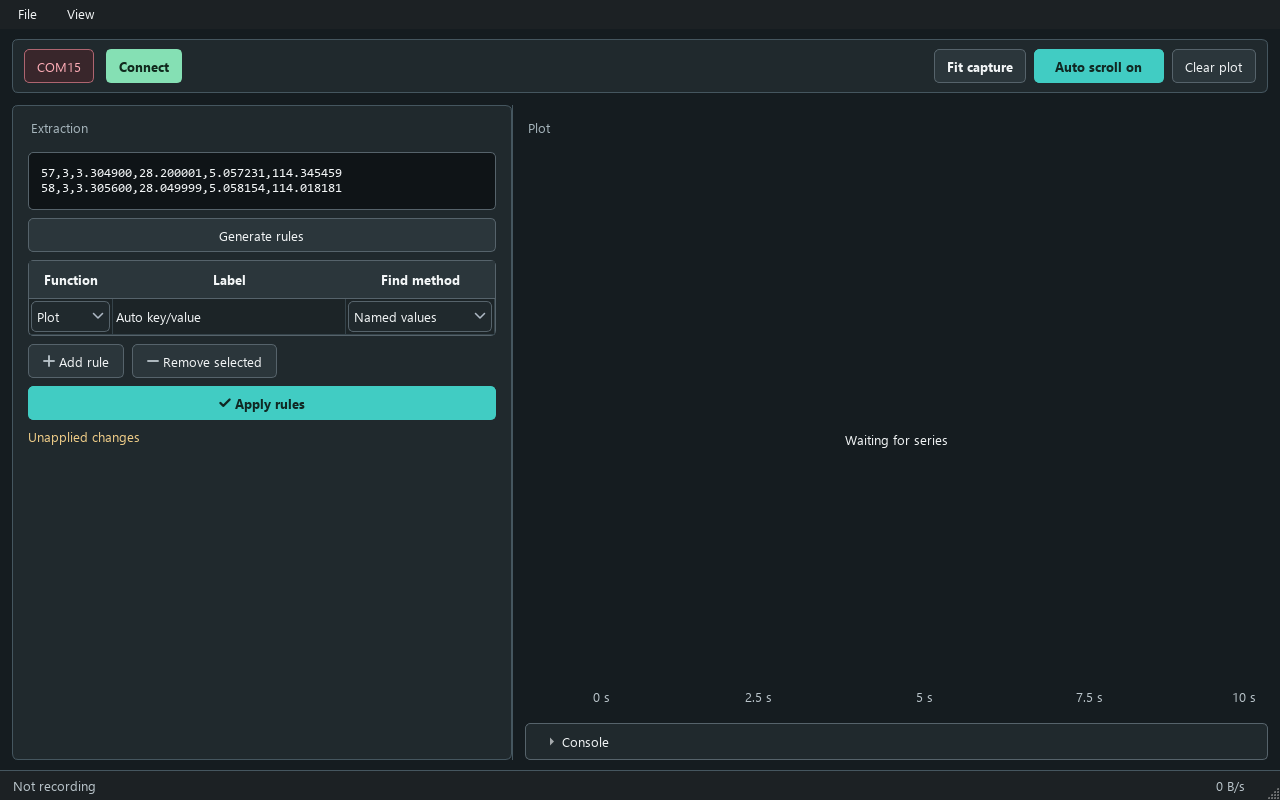
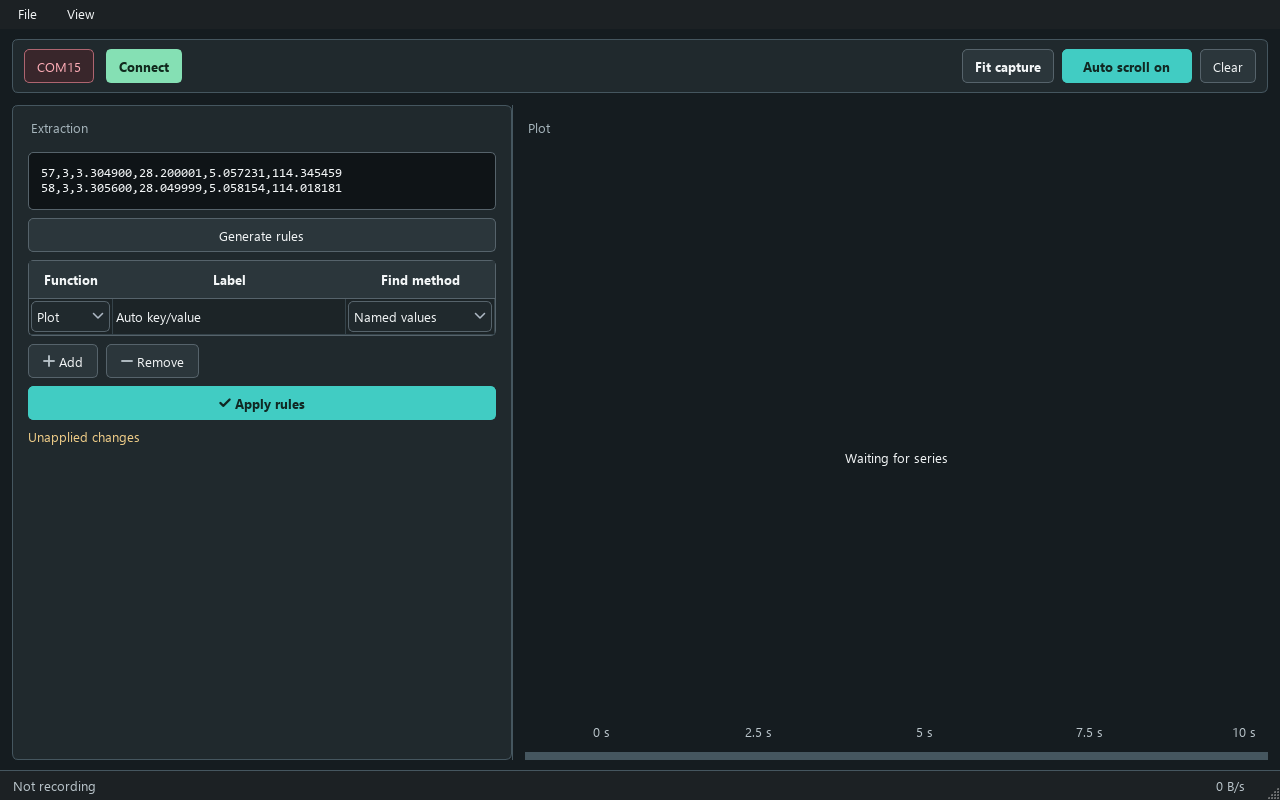
Impove UI slightly

diff --git a/mainwindow.py b/mainwindow.py
@@ -4,7 +4,7 @@ from dataclasses import replace
 from pathlib import Path
 
 from PySide6.QtGui import QAction, QColor, QIcon, QKeySequence, QPalette, QPixmap, QShortcut
-from PySide6.QtCore import QSettings, QSize, QTimer, Qt, Slot
+from PySide6.QtCore import QSettings, QSignalBlocker, QSize, QTimer, Qt, Slot
 from PySide6.QtWidgets import (
     QApplication,
     QFileDialog,
@@ -14,7 +14,6 @@ from PySide6.QtWidgets import (
     QMainWindow,
     QProgressDialog,
     QSizePolicy,
-    QToolButton,
     QWidget,
 )
 
@@ -139,11 +138,6 @@ class MainWindow(QMainWindow):
             heading = QLabel(title, panel)
             heading.setObjectName("PanelHeading")
             layout.insertWidget(0, heading)
-        collapse_console = QToolButton(self.ui.ConsolePanel)
-        collapse_console.setText("Hide")
-        collapse_console.setToolTip("Collapse the console")
-        collapse_console.clicked.connect(lambda: self.ui.actionConsole.setChecked(False))
-        self.ui.SearchLayout.addWidget(collapse_console)
         self.ui.SearchLayout.setSpacing(8)
         self.ui.SendButton.setProperty("primary", True)
         self.ui.SendButton.setIcon(QIcon(":/icons/send.svg"))
@@ -158,7 +152,6 @@ class MainWindow(QMainWindow):
         self.ui.SearchPreviousButton.clicked.connect(self.on_console_search_previous)
         self._console_search_shortcut = QShortcut(QKeySequence.StandardKey.Find, self)
         self._console_search_shortcut.activated.connect(self.focus_console_search)
-        self.ui.ConsoleToggle.setDefaultAction(self.ui.actionConsole)
         self.ui.actionConsole.toggled.connect(self.set_console_visible)
         self.ui.actionSidebar.toggled.connect(self.ui.SeriesSidebar.setVisible)
         self.ui.actionDiagnostics.toggled.connect(self.set_diagnostics_visible)
@@ -175,9 +168,13 @@ class MainWindow(QMainWindow):
         self.ui.MainSplitter.setStretchFactor(0, 0)
         self.ui.MainSplitter.setStretchFactor(1, 1)
         self.ui.WorkspaceSplitter.setCollapsible(0, False)
-        self.ui.WorkspaceSplitter.setCollapsible(1, False)
+        self.ui.WorkspaceSplitter.setCollapsible(1, True)
+        self.ui.WorkspaceSplitter.setHandleWidth(8)
+        self.ui.WorkspaceSplitter.handle(1).setToolTip("Drag down to collapse the console; drag up to reopen it.")
+        self.ui.WorkspaceSplitter.handle(1).setAccessibleName("Resize or collapse console")
+        self.ui.WorkspaceSplitter.splitterMoved.connect(self._console_splitter_moved)
         self._console_height = 180
-        self.ui.ConsolePanel.hide()
+        self.set_console_visible(False)
         self.ui.actionSidebar.setChecked(True)
         self._preferences = QSettings("PlotTTY", "PlotTTY")
         self._sidebar_structure = None
@@ -227,14 +224,19 @@ class MainWindow(QMainWindow):
         self.plot.set_series_visible(item.data(Qt.ItemDataRole.UserRole), item.checkState() == Qt.CheckState.Checked)
 
     def set_console_visible(self, visible):
-        if not visible and self.ui.ConsolePanel.isVisible():
+        if not visible and self.ui.WorkspaceSplitter.sizes()[1] > 0:
             self._console_height = max(80, self.ui.WorkspaceSplitter.sizes()[1])
-        self.ui.ConsoleToggle.setArrowType(Qt.ArrowType.DownArrow if visible else Qt.ArrowType.RightArrow)
-        self.ui.ConsolePanel.setVisible(visible)
-        self.ui.ConsoleToggle.setVisible(not visible)
-        if visible:
-            height = self.ui.WorkspaceSplitter.height()
-            self.ui.WorkspaceSplitter.setSizes([max(220, height - self._console_height), self._console_height])
+        height = self.ui.WorkspaceSplitter.height()
+        console_height = self._console_height if visible else 0
+        self.ui.WorkspaceSplitter.setSizes([max(220, height - console_height), console_height])
+
+    def _console_splitter_moved(self, _position, _index):
+        height = self.ui.WorkspaceSplitter.sizes()[1]
+        if height > 0:
+            self._console_height = height
+        # Reflect a drag in the menu without resizing the splitter mid-gesture.
+        with QSignalBlocker(self.ui.actionConsole):
+            self.ui.actionConsole.setChecked(height > 0)
 
     def focus_console_search(self):
         self.ui.actionConsole.setChecked(True)
@@ -274,6 +276,7 @@ class MainWindow(QMainWindow):
             self._console_height = max(80, min(int(settings.value("consoleHeight", 180)), 1000))
             for name, default in (("Console", False), ("Sidebar", True), ("Diagnostics", False)):
                 getattr(self.ui, "action" + name).setChecked(settings.value(name, default, type=bool))
+            self.set_console_visible(self.ui.actionConsole.isChecked())
         except (TypeError, ValueError):
             self.resize(1280, 800)
 

diff --git a/ui_form.py b/ui_form.py
@@ -19,8 +19,8 @@ from PySide6.QtGui import (QAction, QBrush, QColor, QConicalGradient,
 from PySide6.QtWidgets import (QApplication, QHBoxLayout, QLabel, QLineEdit,
     QListWidget, QListWidgetItem, QMainWindow, QMenu,
     QMenuBar, QPlainTextEdit, QPushButton, QSizePolicy,
-    QSpacerItem, QSplitter, QStatusBar, QToolButton,
-    QVBoxLayout, QWidget)
+    QSpacerItem, QSplitter, QStatusBar, QVBoxLayout,
+    QWidget)
 
 from modules.widgets.plot_widget import PlotWidget
 
@@ -158,18 +158,6 @@ class Ui_MainWindow(object):
 
         self.WorkspaceLayout.addWidget(self.WorkspaceSplitter)
 
-        self.ConsoleToggle = QToolButton(self.Workspace)
-        self.ConsoleToggle.setObjectName(u"ConsoleToggle")
-        self.ConsoleToggle.setToolButtonStyle(Qt.ToolButtonTextBesideIcon)
-        self.ConsoleToggle.setArrowType(Qt.RightArrow)
-        sizePolicy = QSizePolicy(QSizePolicy.Policy.Expanding, QSizePolicy.Policy.Fixed)
-        sizePolicy.setHorizontalStretch(0)
-        sizePolicy.setVerticalStretch(0)
-        sizePolicy.setHeightForWidth(self.ConsoleToggle.sizePolicy().hasHeightForWidth())
-        self.ConsoleToggle.setSizePolicy(sizePolicy)
-
-        self.WorkspaceLayout.addWidget(self.ConsoleToggle)
-
         self.MainSplitter.addWidget(self.Workspace)
 
         self.MainLayout.addWidget(self.MainSplitter)
@@ -220,8 +208,13 @@ class Ui_MainWindow(object):
         self.SearchNextButton.setText(QCoreApplication.translate("MainWindow", u"Next", None))
         self.CommandEdit.setPlaceholderText(QCoreApplication.translate("MainWindow", u"Type command and press Enter", None))
         self.SendButton.setText(QCoreApplication.translate("MainWindow", u"Send", None))
-        self.ClearConsoleButton.setText(QCoreApplication.translate("MainWindow", u"Clear console", None))
-        self.ConsoleToggle.setText(QCoreApplication.translate("MainWindow", u"Console", None))
+        self.ClearConsoleButton.setText(QCoreApplication.translate("MainWindow", u"Clear", None))
+#if QT_CONFIG(tooltip)
+        self.ClearConsoleButton.setToolTip(QCoreApplication.translate("MainWindow", u"Clear console text", None))
+#endif // QT_CONFIG(tooltip)
+#if QT_CONFIG(accessibility)
+        self.ClearConsoleButton.setAccessibleName(QCoreApplication.translate("MainWindow", u"Clear console", None))
+#endif // QT_CONFIG(accessibility)
         self.menuFile.setTitle(QCoreApplication.translate("MainWindow", u"File", None))
         self.menuView.setTitle(QCoreApplication.translate("MainWindow", u"View", None))
         pass

diff --git a/tests/test_ui_redesign.py b/tests/test_ui_redesign.py
@@ -250,6 +250,45 @@ class WorkspaceTest(unittest.TestCase):
         window.ui.actionClearCapturedData.trigger()
         self.assertEqual(window.plot.series_info(), [])
 
+    def test_console_divider_collapses_and_reopens_by_drag(self):
+        window = self.window
+        splitter = window.ui.WorkspaceSplitter
+        window.ui.actionConsole.setChecked(True)
+        APP.processEvents()
+        handle = splitter.handle(1)
+        self.assertGreater(splitter.sizes()[1], 0)
+        QTest.mousePress(handle, Qt.MouseButton.LeftButton, pos=handle.rect().center())
+        QTest.mouseMove(handle, QPoint(handle.width() // 2, splitter.height()))
+        QTest.mouseRelease(handle, Qt.MouseButton.LeftButton)
+        APP.processEvents()
+        self.assertEqual(splitter.sizes()[1], 0)
+        self.assertFalse(window.ui.actionConsole.isChecked())
+        self.assertTrue(handle.isVisible())
+        self.assertGreater(handle.height(), 0)
+        QTest.mousePress(handle, Qt.MouseButton.LeftButton, pos=handle.rect().center())
+        QTest.mouseMove(handle, QPoint(handle.width() // 2, -250))
+        QTest.mouseRelease(handle, Qt.MouseButton.LeftButton)
+        APP.processEvents()
+        self.assertGreater(splitter.sizes()[1], 0)
+        self.assertTrue(window.ui.actionConsole.isChecked())
+
+    def test_collapsed_console_restores_and_search_reopens_it(self):
+        window = self.window
+        window.ui.actionConsole.setChecked(True)
+        window.ui.actionConsole.setChecked(False)
+        self.assertEqual(window.ui.WorkspaceSplitter.sizes()[1], 0)
+        window.close()
+        restored = MainWindow()
+        self.addCleanup(restored.close)
+        restored.show()
+        APP.processEvents()
+        self.assertEqual(restored.ui.WorkspaceSplitter.sizes()[1], 0)
+        self.assertTrue(restored.ui.WorkspaceSplitter.handle(1).isVisible())
+        restored.focus_console_search()
+        APP.processEvents()
+        self.assertGreater(restored.ui.WorkspaceSplitter.sizes()[1], 0)
+        self.assertTrue(restored.ui.SearchEdit.hasFocus())
+
     def test_console_search_selects_and_navigates_matches(self):
         self.window.console.append_received("alpha beta alpha")
         self.window.console.flush()

diff --git a/modules/widgets/plot_widget.py b/modules/widgets/plot_widget.py
@@ -377,7 +377,8 @@ class PlotWidget(QWidget):
         self.fit_capture_button.setCheckable(True)
         self.fit_capture_button.setToolTip(FIT_CAPTURE_TOOLTIP)
         self.fit_capture_button.clicked.connect(self.on_toggle_fit_capture)
-        self.clear_plot_button = QPushButton("Clear plot")
+        self.clear_plot_button = QPushButton("Clear")
+        self.clear_plot_button.setAccessibleName("Clear plot")
         self.clear_plot_button.setObjectName("ClearPlotButton")
         self.clear_plot_button.setToolTip("Clear all plotted data while keeping the console text.")
         self.clear_plot_button.clicked.connect(self.clearPlotRequested)

diff --git a/modules/widgets/rules_editor.py b/modules/widgets/rules_editor.py
@@ -46,8 +46,10 @@ class RulesEditor(QWidget):
         self._applied_rules = self.rules_table.rules()
         layout.addWidget(self.table)
         row = QHBoxLayout()
-        add = QPushButton("Add rule")
-        remove = QPushButton("Remove selected")
+        add = QPushButton("Add")
+        remove = QPushButton("Remove")
+        add.setToolTip("Add an extraction rule")
+        remove.setToolTip("Remove selected rules")
         add.setIcon(QIcon(":/icons/plus.svg"))
         remove.setIcon(QIcon(":/icons/minus.svg"))
         row.addWidget(add)

diff --git a/design-previews/implemented-01a/README.md b/design-previews/implemented-01a/README.md
@@ -19,7 +19,13 @@ The production UI retains per-rule
 extraction methods and zero-based fields, and displays actual latest values rather
 than the mockup's illustrative minimum/maximum statistics.
 
-Validation: 55 unit tests pass, including draft/apply behavior, adaptive table sizing, visible validation
+The console collapses and reopens by dragging its divider to/from the bottom edge;
+View → Console and Ctrl+F remain available. No separate Hide or drawer-toggle
+button is used. Both Clear buttons and the Add/Remove labels are compact, with
+tooltips explaining their scope.
+
+Validation: 57 unit tests pass, including console drag/reopen and persisted collapse,
+draft/apply behavior, adaptive table sizing, visible validation
 feedback, serial recording through a fake transport,
 console search and commands, capture import/export, and plot navigation. Screenshots
 were reviewed at 1672 × 941 and 1280 × 800. No physical device or packaged executable

diff --git a/README.md b/README.md
@@ -50,8 +50,10 @@ appears only for loaded captures, showing the filename with its full path in a t
 Wheel or drag plots to zoom/pan time; use the Y axis to adjust its range and
 double-click it to reset. Larger stacks scroll vertically above a fixed time axis.
 
-Open the **Console** drawer to send commands with Enter or Send; **Hide** collapses
-it again. **Clear console**
+Drag the divider at the bottom of the plot upward to open the **Console**, or use
+**View → Console**. Drag it down to the bottom edge to collapse the console; the
+divider stays available for reopening. Ctrl+F also opens the console and focuses
+search. Send commands with Enter or Send. The console's **Clear** button
 only clears text; **File → Clear captured data** also clears plotted history,
 without deleting recordings. The **View** menu controls the console, sidebar,
 and diagnostics (point counts and downsampling). The console retains the latest

diff --git a/AGENTS.md b/AGENTS.md
@@ -1,5 +1,7 @@
 # PlotTTY working rules
 
-This application is pre-release. Do not preserve legacy compatibility during refactors unless the user explicitly requests it.
+This application is pre-release. For all changes, do not preserve backwards compatibility unless the user explicitly requests it. This applies to UI workflows, APIs, settings, profiles, and file formats as well as refactors.
+
+Prefer the simplest current implementation. Do not add compatibility shims, legacy fallbacks, migration layers, or duplicate implementations solely to support previous behavior or formats.
 
 When replacing a workflow, remove its superseded UI, code paths, shims, and tests. Prefer a smaller single implementation over dual-mode compatibility layers.
